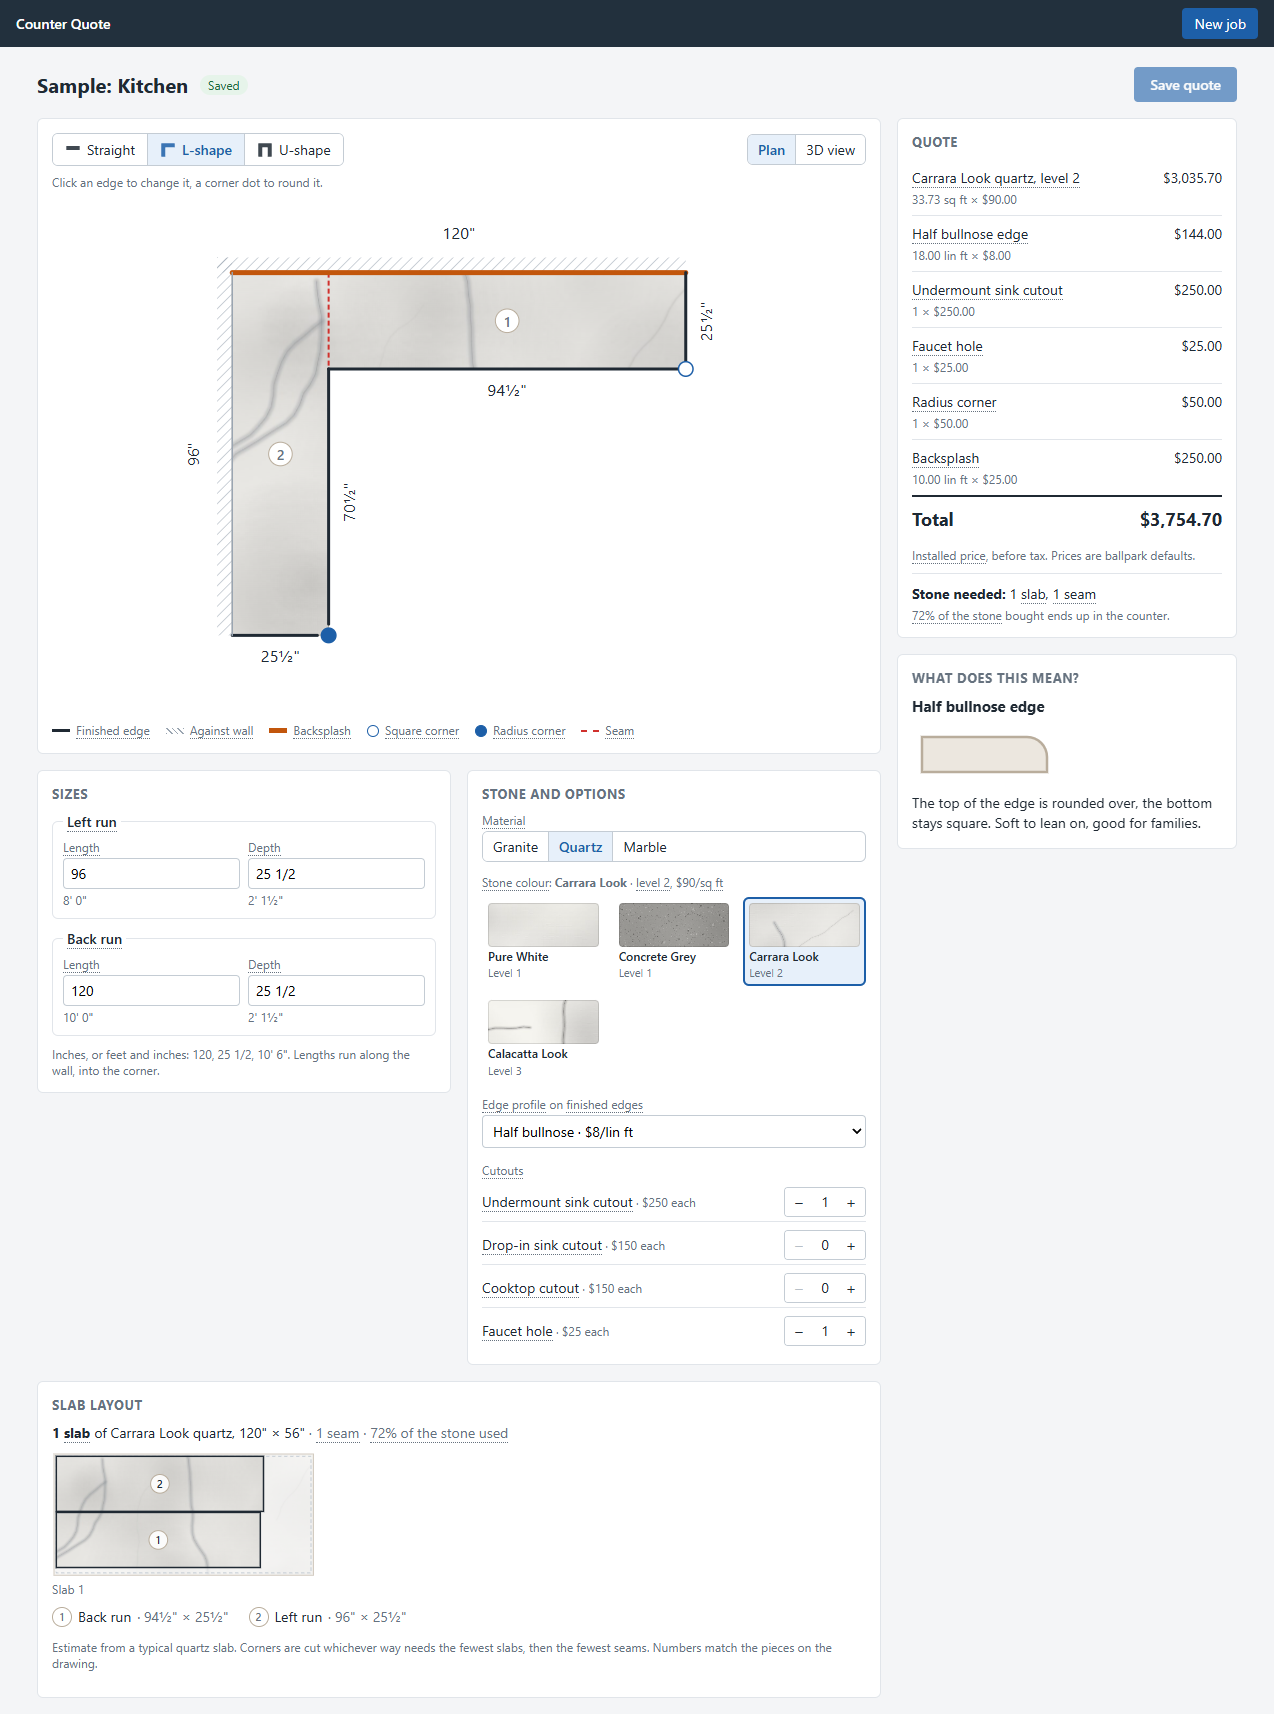
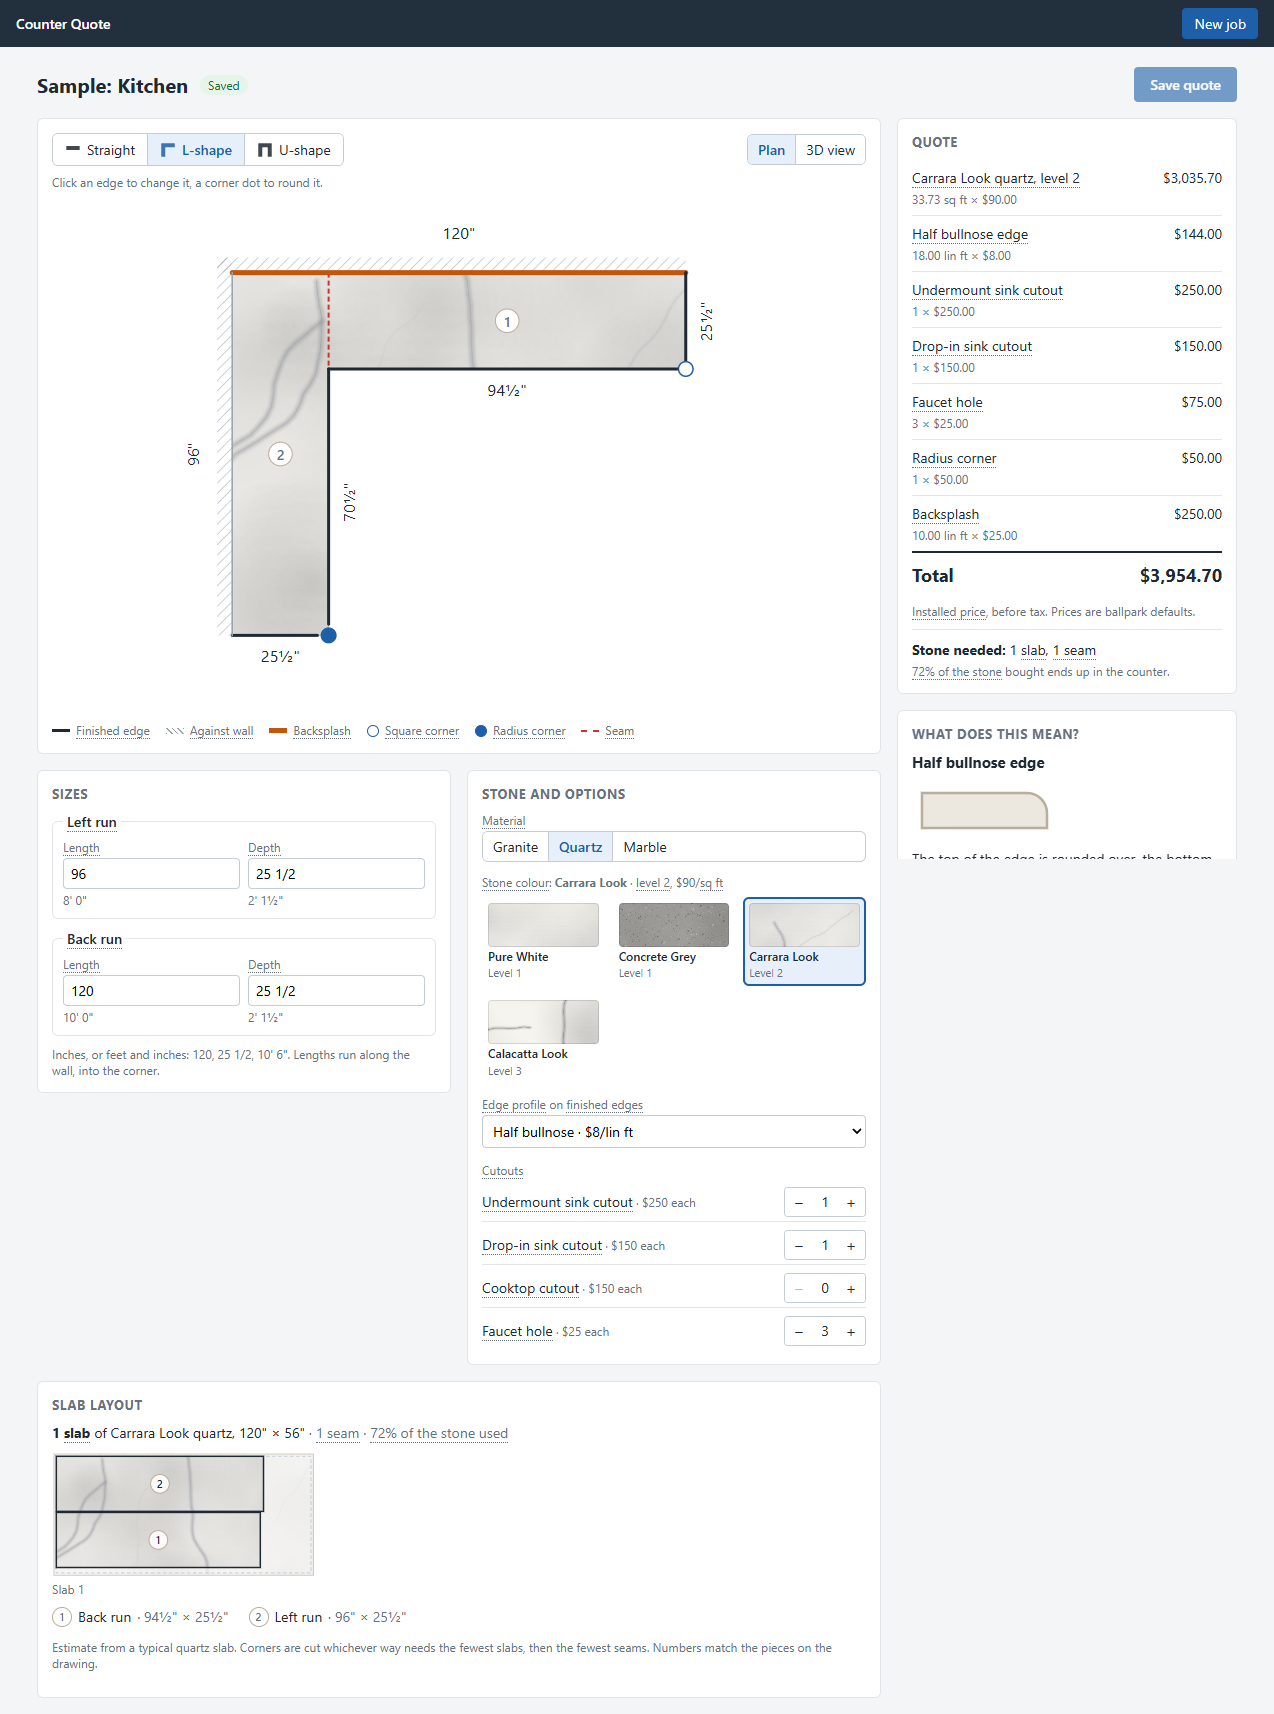
Polish jobs list, new job page and shape switching
- Jobs list: each counter's shape in its stone, stone name, created date,
  whole row clickable, "Not quoted yet" badge, and an empty state.
- New job: focus starts in the name, explains what comes next, material
  buttons matching the job page.
- Switching shape keeps the typed depth, and asks before losing lengths,
  edges or corners. Tests for both.

Changed region(s): [[0.7041, 0.1855, 0.949, 0.4947], [0.9184, 0.1855, 0.949, 0.2165]]

diff --git a/frontend/src/pages/JobsPage.tsx b/frontend/src/pages/JobsPage.tsx
@@ -1,40 +1,90 @@
 import { useQuery } from '@tanstack/react-query';
-import { Link } from 'react-router-dom';
+import type { MouseEvent } from 'react';
+import { Link, useNavigate } from 'react-router-dom';
 import { getJobs, type Job } from '../api';
+import { CounterThumbnail } from '../components/CounterThumbnail';
 import { formatMoney } from '../components/QuotePanels';
 import { parseDrawing } from '../counter/drawing';
+import { colorFor, DEFAULT_PRICE_LIST } from '../counter/priceList';
 
 const SHAPE_NAMES = { straight: 'Straight', L: 'L-shape', U: 'U-shape' };
+const dateFormat = new Intl.DateTimeFormat('en-US', { month: 'short', day: 'numeric', year: 'numeric' });
 
 export function JobsPage() {
+  const navigate = useNavigate();
   const { data: jobs, error } = useQuery({ queryKey: ['jobs'], queryFn: getJobs });
 
   if (error) return <p className="errors">{error.message}</p>;
   if (!jobs) return <p>Loading…</p>;
 
+  if (jobs.length === 0) {
+    return (
+      <>
+        <h1>Jobs</h1>
+        <section className="card empty-state">
+          <h2>No jobs yet</h2>
+          <p>Create a job for a customer, draw their counter, and see the price as you go.</p>
+          <Link to="/jobs/new" className="button">Create the first job</Link>
+        </section>
+      </>
+    );
+  }
+
+  const quotedCount = jobs.filter(isQuoted).length;
+  // The name cell holds a real link for keyboards and screen readers; the rest of the row is a mouse shortcut to it.
+  const openRow = (job: Job) => (e: MouseEvent) => {
+    if (!(e.target as HTMLElement).closest('a')) navigate(`/jobs/${job.id}`);
+  };
+
   return (
     <>
-      <h1>Jobs</h1>
-      <table>
+      <div className="page-header">
+        <div>
+          <h1>Jobs</h1>
+          <p className="muted page-intro">
+            {jobs.length} {jobs.length === 1 ? 'job' : 'jobs'} · {quotedCount} quoted. Open a job to draw the counter and price it.
+          </p>
+        </div>
+      </div>
+      <table className="jobs">
         <thead>
-          <tr><th>#</th><th>Customer</th><th>Material</th><th>Shape</th><th className="amount">Quote</th></tr>
+          <tr>
+            <th aria-label="Shape preview" />
+            <th>Customer</th>
+            <th>Shape</th>
+            <th>Created</th>
+            <th className="amount">Quote</th>
+          </tr>
         </thead>
         <tbody>
-          {jobs.map((job) => (
-            <tr key={job.id}>
-              <td>{job.id}</td>
-              <td><Link to={`/jobs/${job.id}`}>{job.customerName}</Link></td>
-              <td>{job.material}</td>
-              <td>{job.drawing ? SHAPE_NAMES[parseDrawing(job.drawing, job.material).counter.kind] : '—'}</td>
-              <td className="amount">{quoted(job) ? formatMoney(job.quoteTotal) : <span className="muted">Not quoted</span>}</td>
-            </tr>
-          ))}
+          {jobs.map((job) => {
+            const quoted = isQuoted(job);
+            const { counter, options } = parseDrawing(job.drawing, job.material);
+            const material = DEFAULT_PRICE_LIST.materials.find((m) => m.id === options.materialId) ?? DEFAULT_PRICE_LIST.materials[0];
+            const color = colorFor(material, options.colorId, options.level);
+            return (
+              <tr key={job.id} className="job-row" onClick={openRow(job)}>
+                <td className="thumb-cell">
+                  {quoted ? <CounterThumbnail counter={counter} color={color} /> : <span className="thumbnail thumbnail-empty" />}
+                </td>
+                <td>
+                  <Link to={`/jobs/${job.id}`} className="job-name">{job.customerName}</Link>
+                  <div className="hint">{quoted ? `${color.name} ${material.name.toLowerCase()}` : job.material}</div>
+                </td>
+                <td>{quoted ? SHAPE_NAMES[counter.kind] : <span className="muted">—</span>}</td>
+                <td className="muted">{dateFormat.format(new Date(job.createdDate))}</td>
+                <td className="amount">
+                  {quoted ? <strong>{formatMoney(job.quoteTotal)}</strong> : <span className="badge">Not quoted yet</span>}
+                </td>
+              </tr>
+            );
+          })}
         </tbody>
       </table>
     </>
   );
 }
 
-function quoted(job: Job) {
+function isQuoted(job: Job) {
   return job.drawing !== '';
 }

diff --git a/frontend/src/index.css b/frontend/src/index.css
@@ -36,6 +36,7 @@ th { font-weight: 600; background: #eef1f4; }
 .card { background: var(--surface); border: 1px solid var(--line); border-radius: var(--radius); padding: 14px; margin: 12px 0; }
 .form { display: grid; gap: 10px; max-width: 420px; }
 .form label { display: grid; gap: 4px; }
+.form .field-label { font-size: inherit; color: inherit; }
 .form input, .form select { font: inherit; padding: 5px 6px; border: 1px solid var(--line-strong); border-radius: 4px; }
 .errors { color: var(--danger); background: #fdecec; border: 1px solid #f3c2c2; border-radius: 4px; padding: 8px; }
 ul.errors { margin: 0 0 8px; padding-left: 28px; }
@@ -43,6 +44,29 @@ ul.errors { margin: 0 0 8px; padding-left: 28px; }
 .hint { color: var(--muted); font-size: 12px; }
 .hint-error { color: var(--danger); }
 :focus-visible { outline: 2px solid var(--accent); outline-offset: 2px; }
+
+/* Jobs list */
+.page-intro { margin: 0 0 12px; }
+table.jobs { border: 1px solid var(--line); border-radius: var(--radius); border-collapse: separate; border-spacing: 0; overflow: hidden; }
+.jobs td { padding: 10px 12px; vertical-align: middle; }
+.jobs th { padding: 8px 12px; }
+.jobs tbody tr:last-child td { border-bottom: 0; }
+.job-row { cursor: pointer; }
+.job-row:hover td { background: #f7f9fb; }
+.job-name { font-weight: 600; text-decoration: none; }
+.job-name:hover { text-decoration: underline; }
+.thumb-cell { width: 72px; }
+.thumbnail { display: block; width: 64px; height: 40px; }
+.thumbnail-stone { stroke: var(--stone-edge); stroke-width: 1; vector-effect: non-scaling-stroke; }
+.thumbnail-empty { border: 1.5px dashed var(--line-strong); border-radius: 4px; box-sizing: border-box; }
+.badge { display: inline-block; font-size: 12px; padding: 2px 8px; border-radius: 999px; background: #eef1f4; color: var(--muted); }
+.empty-state { text-align: center; padding: 32px 16px; }
+.empty-state h2 { text-transform: none; letter-spacing: 0; font-size: 16px; color: var(--ink); }
+.empty-state p { color: var(--muted); margin: 0 0 16px; }
+@media (max-width: 600px) {
+  .jobs th:nth-child(4), .jobs td:nth-child(4) { display: none; }
+  .jobs td, .jobs th { padding-left: 8px; padding-right: 8px; }
+}
 
 /* Job page layout */
 .page-header { display: flex; flex-wrap: wrap; align-items: center; justify-content: space-between; gap: 8px; margin-bottom: 12px; }

diff --git a/frontend/src/pages/NewJobPage.tsx b/frontend/src/pages/NewJobPage.tsx
@@ -22,25 +22,39 @@ export function NewJobPage() {
 
   const handleSubmit = (event: FormEvent) => {
     event.preventDefault();
-    save.mutate({ customerName, material });
+    save.mutate({ customerName: customerName.trim(), material });
   };
 
   return (
     <>
       <h1>New job</h1>
+      <p className="muted page-intro">Who is it for, and which stone are they thinking of? Next you'll draw the counter and see the price.</p>
       {save.error && <p className="errors">{save.error.message}</p>}
       <form className="card form" onSubmit={handleSubmit}>
         <label>
           Customer
-          <input value={customerName} onChange={(e) => setCustomerName(e.target.value)} required />
+          <input
+            value={customerName}
+            onChange={(e) => setCustomerName(e.target.value)}
+            placeholder="e.g. Rivera kitchen"
+            autoFocus
+            required
+          />
         </label>
-        <label>
-          Material
-          <select value={material} onChange={(e) => setMaterial(e.target.value)}>
-            {MATERIALS.map((m) => <option key={m}>{m}</option>)}
-          </select>
-        </label>
-        <button type="submit" className="button" disabled={save.isPending}>Save job</button>
+        <div className="field">
+          <span className="field-label">Material</span>
+          <div className="segmented segmented-small" role="radiogroup" aria-label="Material">
+            {MATERIALS.map((m) => (
+              <button key={m} type="button" role="radio" aria-checked={m === material} className={m === material ? 'active' : ''} onClick={() => setMaterial(m)}>
+                {m}
+              </button>
+            ))}
+          </div>
+          <span className="hint">You can change it, and pick the exact stone colour, on the next screen.</span>
+        </div>
+        <button type="submit" className="button" disabled={save.isPending || !customerName.trim()}>
+          {save.isPending ? 'Creating…' : 'Create job and draw counter'}
+        </button>
       </form>
     </>
   );

diff --git a/frontend/src/pages/JobPage.tsx b/frontend/src/pages/JobPage.tsx
@@ -13,7 +13,7 @@ import { HelpBox, HelpProvider } from '../help/Help';
 // three.js is large, so the 3D view is only downloaded when it is first opened.
 const Counter3D = lazy(() => import('../components/Counter3D'));
 import { quote as priceQuote } from '../counter/quote';
-import { createCounter, validateCounter } from '../counter/shapes';
+import { isUntouched, type ShapeKind, switchShape, validateCounter } from '../counter/shapes';
 import { planSlabs } from '../counter/slabs';
 
 const prices = DEFAULT_PRICE_LIST;
@@ -69,6 +69,13 @@ function JobEditor({ job }: { job: Job }) {
     return () => window.removeEventListener('keydown', onKey);
   }, [canSave, save]);
 
+  // A new shape keeps the depth; sizes, edges and corners start fresh, so ask first if any were set.
+  const changeShape = (kind: ShapeKind) => {
+    const name = { straight: 'a straight counter', L: 'an L-shape', U: 'a U-shape' }[kind];
+    if (!isUntouched(counter) && !window.confirm(`Change to ${name}? The lengths, edges and corners you set will start again from the standard ${kind === 'straight' ? 'size' : 'sizes'}. The depth is kept.`)) return;
+    setDrawing({ ...drawing, counter: switchShape(counter, kind) });
+  };
+
   const status = save.isPending ? 'Saving…' : dirty ? 'Unsaved changes' : neverSaved ? 'Not quoted yet' : 'Saved';
 
   return (
@@ -88,7 +95,7 @@ function JobEditor({ job }: { job: Job }) {
         <div className="main-column">
           <section className="card drawing-card" aria-label="Drawing">
             <div className="toolbar">
-              <ShapePicker kind={counter.kind} onSelect={(kind) => setDrawing({ ...drawing, counter: createCounter(kind) })} />
+              <ShapePicker kind={counter.kind} onSelect={changeShape} />
               <div className="segmented segmented-small" role="tablist" aria-label="View">
                 <button type="button" role="tab" aria-selected={view === 'plan'} className={view === 'plan' ? 'active' : ''} onClick={() => setView('plan')}>
                   Plan

diff --git a/frontend/src/counter/shapes.test.ts b/frontend/src/counter/shapes.test.ts
@@ -1,0 +1,32 @@
+import { describe, expect, it } from 'vitest';
+import { createCounter, isUntouched, switchShape } from './shapes';
+
+describe('switching shape', () => {
+  it('keeps the depth that was typed', () => {
+    const straight = createCounter('straight');
+    straight.legs[0].depth = 22;
+    expect(switchShape(straight, 'U').legs.map((l) => l.depth)).toEqual([22, 22, 22]);
+  });
+
+  it('keeps each leg\'s own depth where the new shape has the same leg', () => {
+    const l = createCounter('L');
+    l.legs = [{ length: 96, depth: 25.5 }, { length: 120, depth: 30 }];
+    expect(switchShape(l, 'U').legs.map((leg) => leg.depth)).toEqual([25.5, 30, 25.5]);
+  });
+
+  it('a preset with only its depth changed has nothing to lose', () => {
+    const c = createCounter('L');
+    c.legs[0].depth = 24;
+    expect(isUntouched(c)).toBe(true);
+  });
+
+  it.each([
+    ['a length', (c: ReturnType<typeof createCounter>) => { c.legs[1].length = 110; }],
+    ['an edge', (c: ReturnType<typeof createCounter>) => { c.edges[0] = 'backsplash'; }],
+    ['a corner', (c: ReturnType<typeof createCounter>) => { c.corners[2] = 'radius'; }],
+  ])('changing %s is work that switching would lose', (_, change) => {
+    const c = createCounter('L');
+    change(c);
+    expect(isUntouched(c)).toBe(false);
+  });
+});

diff --git a/frontend/src/components/CounterThumbnail.tsx b/frontend/src/components/CounterThumbnail.tsx
@@ -1,0 +1,25 @@
+import { useId } from 'react';
+import type { StoneColor } from '../counter/priceList';
+import { type Counter, roundedOutline } from '../counter/shapes';
+import { StonePattern } from './StonePattern';
+
+/** A small picture of the counter's shape in its stone, for lists. */
+export function CounterThumbnail({ counter, color }: { counter: Counter; color: StoneColor }) {
+  const stoneId = `thumb${useId().replace(/:/g, '')}`;
+  const { points, rounded, ends } = roundedOutline(counter, 3);
+  const width = Math.max(...points.map((p) => p.x));
+  const height = Math.max(...points.map((p) => p.y));
+  const pad = Math.max(width, height) * 0.06;
+  const d =
+    `M ${ends[0].a.x},${ends[0].a.y} ` +
+    points.map((p, i) => (rounded[i] ? `L ${ends[i].a.x},${ends[i].a.y} Q ${p.x},${p.y} ${ends[i].b.x},${ends[i].b.y}` : `L ${p.x},${p.y}`)).join(' ') +
+    ' Z';
+  return (
+    <svg className="thumbnail" viewBox={`${-pad} ${-pad} ${width + 2 * pad} ${height + 2 * pad}`} aria-hidden="true">
+      <defs>
+        <StonePattern id={stoneId} color={color} />
+      </defs>
+      <path d={d} fill={`url(#${stoneId})`} className="thumbnail-stone" />
+    </svg>
+  );
+}

diff --git a/frontend/src/counter/shapes.ts b/frontend/src/counter/shapes.ts
@@ -69,6 +69,23 @@ export function createCounter(kind: ShapeKind): Counter {
   }
 }
 
+/** A new shape that keeps the depth already typed (the cabinets don't change when the layout does). */
+export function switchShape(counter: Counter, kind: ShapeKind): Counter {
+  const next = createCounter(kind);
+  next.legs = next.legs.map((leg, i) => ({ ...leg, depth: (counter.legs[i] ?? counter.legs[0]).depth }));
+  return next;
+}
+
+/** True if nothing but the depth has been changed from the preset, so switching shape loses no work. */
+export function isUntouched(counter: Counter): boolean {
+  const preset = createCounter(counter.kind);
+  return (
+    counter.legs.every((leg, i) => leg.length === preset.legs[i].length) &&
+    counter.edges.every((e, i) => e === preset.edges[i]) &&
+    counter.corners.every((c, i) => c === preset.corners[i])
+  );
+}
+
 /** The outline, clockwise on screen, starting at the back-left corner. */
 export function outline(counter: Counter): Point[] {
   const { kind, legs } = counter;

diff --git a/ROADMAP.md b/ROADMAP.md
@@ -61,6 +61,12 @@ The foundation. Pure TypeScript, fully unit-tested, so the maths can be trusted 
 - [x] 3D view (three.js): stone top on cabinets, walls, backsplash, seams, edge profile and radius corners; updates as you type
 - [x] "What does this mean?" box: every trade word on screen explained in plain words, with pictures for edge profiles, sinks, corners, backsplash and seams
 
+## Step 4c — Polish
+
+- [x] Jobs list: shape thumbnail in its stone, stone name, created date, whole row clickable, "Not quoted yet" badge, empty state
+- [x] New job: cursor in the name field, says what happens next, material buttons like the job page
+- [x] Switching shape keeps the depth, and asks first if lengths, edges or corners would be lost
+
 ## Step 5 — Optional
 
 - [ ] Angled legs and bumpouts
